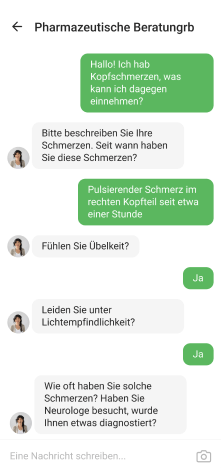
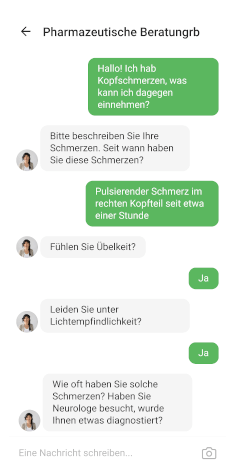
PB-158: add retina images

diff --git a/src/sections/Gallery.tsx b/src/sections/Gallery.tsx
@@ -4,25 +4,25 @@ import {SectionTitle} from '../components/SectionTitle';
 
 const screens = [
   {
-    screenId: '2',
+    screenId: '1',
     title: 'Einen effizienten Weg zur Gewinnung von neuen Kunden',
     text:
       'Wir investieren erheblich in Marketing und die Förderung Ihrer Bekanntheit. Dank unserem Service erfahren mehr Menschen von Ihrer Apotheke und werden zu Ihren Stammkunden',
   },
   {
-    screenId: '3',
+    screenId: '2',
     title: 'Aktuelle Preise für Medikamente in Ihrer Apotheke',
     text:
       'Wir zeigen Ihre Preise an und aktualisieren diese regelmäßig, damit die Kunden jederzeit Ihre günstigen Konditionen und Sonderangebote sehen',
   },
   {
-    screenId: '5',
+    screenId: '3',
     title: 'Beste Erreichbarkeit für Ihre Kunden',
     text:
       'Ihre Apotheker können die Kaufinteressenten beraten sowie via Chat, Push-Benachrichtigungen und individuellen Angebote immer mit Kunden in Kontakt bleiben',
   },
   {
-    screenId: '5',
+    screenId: '4',
     title: 'Persönliche Homepage Ihrer Apotheke in der App und auf der Webseite',
     text:
       'Sie brauchen keine eigene Webseite erstellen zu lassen, um im Blickfeld Ihrer Kunden zu stehen. Entwerfen Sie mit unseren einfachen Tools Ihre individuelle Homepage und nutzen Sie unseren Service - ohne Entwicklungsarbeiten',

diff --git a/src/components/Phone.tsx b/src/components/Phone.tsx
@@ -8,12 +8,11 @@ export const Phone = ({screenId, opacity}: Props) => (
     <div className='wrapper'>
       <div className='circle' />
       <div className='screen-background' />
-      <div
+      <img
         className='screen'
-        style={{
-          opacity,
-          backgroundImage: `url('/screens/${screenId}.png')`,
-        }}
+        src={`/screens/${screenId}.png`}
+        srcSet={`/screens/${screenId}.png, /screens/${screenId}@2x.png 2x, /screens/${screenId}@3x.png 3x`}
+        style={{opacity}}
       />
       <div className='phone' />
     </div>
@@ -43,20 +42,17 @@ export const Phone = ({screenId, opacity}: Props) => (
       }
       .screen {
         position: absolute;
-        top: 50px;
-        left: 20px;
-        right: 20px;
-        bottom: 50px;
-        background-position: center;
-        background-repeat: no-repeat;
-        background-size: contain;
+        top: 52px;
+        left: 21px;
+        width: 236px;
+        height: 470px;
       }
       .phone {
         position: relative;
-        width: 258px;
-        height: 554px;
+        width: 278px;
+        height: 574px;
         background: url('/phone.png') no-repeat;
-        background-size: 258px 554px;
+        background-size: 278px 574px;
       }
     `}</style>
   </>

diff --git a/src/sections/Welcome.tsx b/src/sections/Welcome.tsx
@@ -24,8 +24,12 @@ export const Welcome = () => (
     <style jsx>{`
       .main {
         position: relative;
-        background: url('/cover_2.jpg') no-repeat top center;
+        background: url('/cover.jpg') no-repeat top center;
         background-size: cover;
+
+        @media (min-device-pixel-ratio: 1.5), (-webkit-min-device-pixel-ratio: 1.5), (min-resolution: 144dpi) {
+          background-image: url('/cover@2x.jpg');
+        }
 
         &::after {
           position: absolute;
